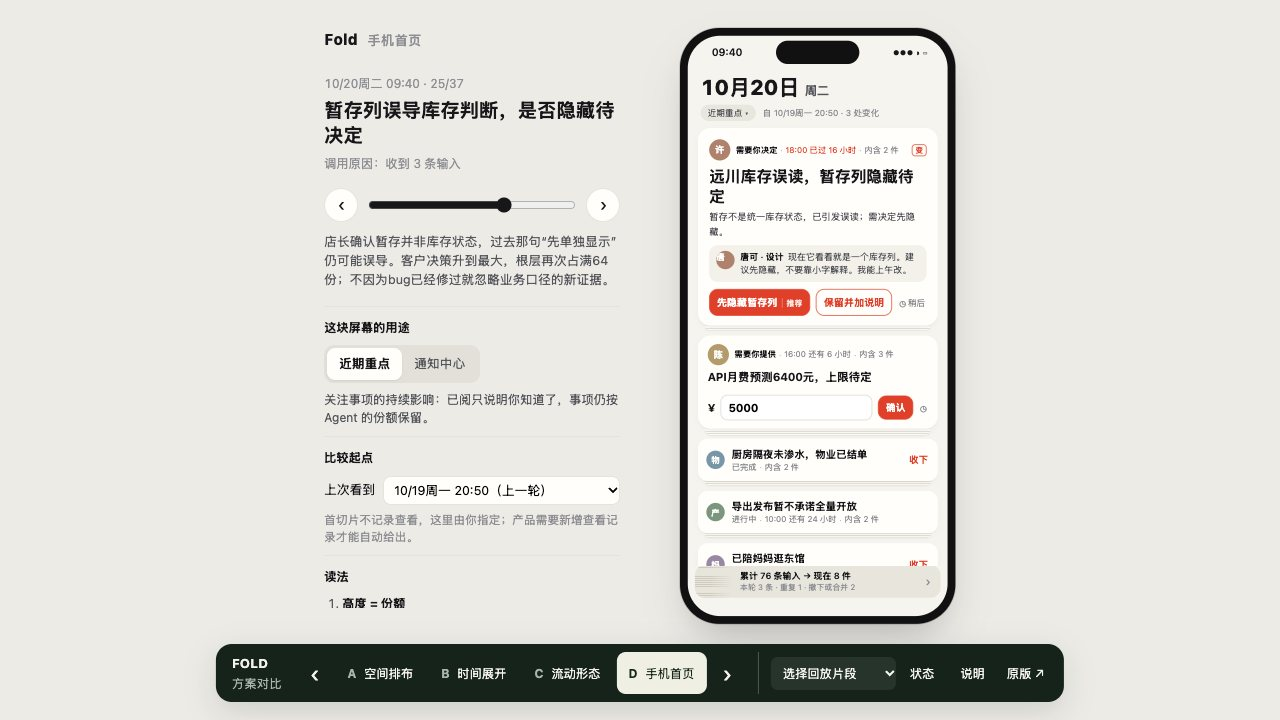
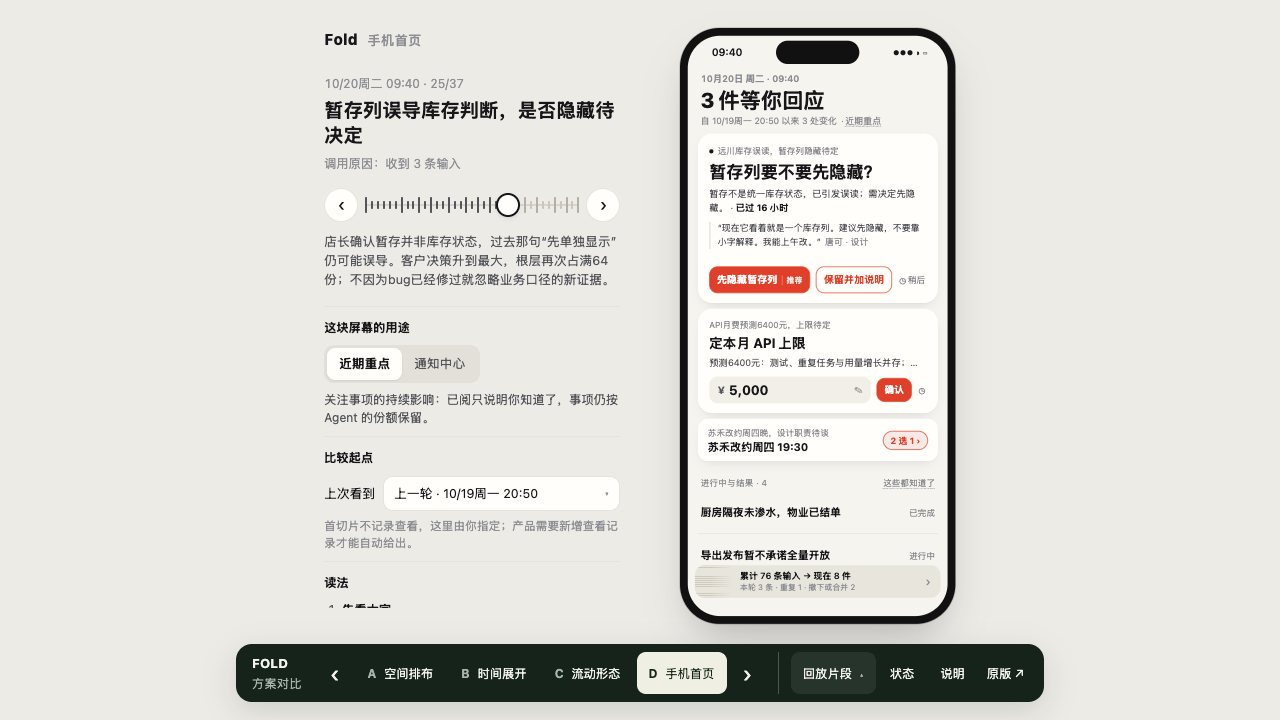
手机首页改为三层结构，替换原生控件
- 首页只回答三个问题：顶部一句话说几件等你回应；只有登记了反馈路径的事是卡片，标题即要回答的问题；其余进行中与结果为无装饰的行，小事叠在一起。
- 头像、类别色与子项纸边移出首页，变化统一为一个黑点；朱红只用于可回应的控件。
- 时间轴、比较起点、金额、短句与回放片段菜单改为自绘控件，不再使用原生 input/select。

diff --git a/prototype/variants/d.css b/prototype/variants/d.css
@@ -17,7 +17,13 @@
 .d-rail-signal { margin: 0; font-size: 12px; color: var(--ink-3); }
 .d-rail-steps { display: flex; align-items: center; gap: 8px; margin: 14px 0 10px; }
 .d-rail-steps button { width: 34px; height: 34px; border-radius: 50%; border: 1px solid var(--line); background: var(--card); font-size: 18px; color: var(--ink); cursor: pointer; }
-.d-rail-range { flex: 1; accent-color: var(--ink); }
+.d-track { position: relative; flex: 1; height: 34px; cursor: pointer; touch-action: none; outline: none; border-radius: 8px; }
+.d-track:focus-visible { box-shadow: 0 0 0 2px var(--ink); }
+.d-track-line { position: absolute; left: 0; right: 0; top: 16px; height: 2px; border-radius: 1px; background: #d8d4ca; }
+.d-track-ticks i { position: absolute; top: 13px; width: 2px; height: 8px; margin-left: -1px; border-radius: 1px; background: #cbc6bb; }
+.d-track-ticks i.is-day { top: 9px; height: 16px; background: #b4afa4; }
+.d-track-ticks i.is-past { background: var(--ink-2); }
+.d-track-thumb { position: absolute; top: 7px; width: 20px; height: 20px; margin-left: -10px; border-radius: 50%; background: var(--card); box-shadow: 0 0 0 2px var(--ink), 0 2px 6px #0003; transition: left .18s; pointer-events: none; }
 .d-rail-narrative { margin: 0 0 16px; font-size: 12.5px; }
 .d-rail-block { border-top: 1px solid var(--line); padding: 12px 0 4px; }
 .d-rail-block h2 { margin: 0 0 8px; font-size: 12px; color: var(--ink); font-weight: 700; }
@@ -26,7 +32,16 @@
 .d-surface-toggle button[aria-checked="true"] { background: var(--card); color: var(--ink); font-weight: 600; box-shadow: 0 1px 2px #0001; }
 .d-surface-policy { margin: 8px 0 4px; font-size: 12px; }
 .d-base { display: flex; align-items: center; gap: 8px; font-size: 12.5px; color: var(--ink); }
-.d-base select { flex: 1; padding: 5px 6px; border-radius: 8px; border: 1px solid var(--line); background: var(--card); font: inherit; }
+.d-base-btn { flex: 1; display: flex; justify-content: space-between; align-items: center; padding: 7px 10px; border-radius: 10px; border: 1px solid var(--line); background: var(--card); font: inherit; font-size: 12.5px; color: var(--ink); cursor: pointer; text-align: left; }
+.d-base-btn span { font-size: 10px; color: var(--ink-3); }
+.d-base-menu { margin-top: 6px; max-height: 260px; overflow: auto; background: var(--card); border-radius: 12px; box-shadow: 0 10px 30px -10px #0004, 0 0 0 1px var(--line); padding: 4px; scrollbar-width: thin; }
+.d-base-menu button { display: block; width: 100%; text-align: left; border: 0; background: none; border-radius: 8px; padding: 7px 9px; font: inherit; cursor: pointer; color: var(--ink); }
+.d-base-menu button:hover, .d-base-menu button:focus-visible { background: #f2efe8; outline: none; }
+.d-base-menu button[aria-selected="true"] { background: var(--ink); color: #fff; }
+.d-base-menu button[aria-selected="true"] small, .d-base-menu button[aria-selected="true"] em { color: #fffc; }
+.d-base-menu span { font-size: 12.5px; font-variant-numeric: tabular-nums; }
+.d-base-menu em { font-style: normal; font-size: 11px; color: var(--red); margin-left: 6px; }
+.d-base-menu small { display: block; font-size: 11px; color: var(--ink-3); white-space: nowrap; overflow: hidden; text-overflow: ellipsis; }
 .d-small { font-size: 11.5px; color: var(--ink-3); margin: 6px 0; line-height: 1.5; }
 .d-legend ol { margin: 0; padding-left: 18px; font-size: 12px; }
 .d-legend li { margin-bottom: 6px; }
@@ -47,16 +62,18 @@
 
 .d-head { padding: 6px 4px 10px; }
 .d-head-main { display: flex; justify-content: space-between; align-items: center; gap: 8px; }
-.d-date { font-size: 30px; font-weight: 800; letter-spacing: -.01em; font-variant-numeric: tabular-nums; }
-.d-date span { font-size: 17px; font-weight: 600; margin-left: 8px; color: var(--ink-2); }
+.d-date { font-size: 13px; font-weight: 600; color: var(--ink-3); font-variant-numeric: tabular-nums; }
+.d-headline { margin: 4px 0 2px; font-size: 30px; line-height: 1.2; font-weight: 800; letter-spacing: -.01em; }
+.d-headline:empty { display: none; }
 .d-snoozed { border: 1px solid var(--line); background: var(--card); border-radius: 99px; padding: 6px 11px; font-size: 12px; color: var(--ink); cursor: pointer; white-space: nowrap; }
-.d-head-sub { display: flex; align-items: center; gap: 10px; margin-top: 4px; font-size: 12px; color: var(--ink-3); }
-.d-surface-chip { border: 0; background: #e9e6de; border-radius: 99px; padding: 3px 10px; font-size: 12px; color: var(--ink-2); cursor: pointer; }
+.d-head-sub { display: flex; align-items: center; gap: 6px; margin: 0; font-size: 12.5px; color: var(--ink-3); }
+.d-surface-chip { border: 0; background: none; padding: 0; font: inherit; color: var(--ink-3); cursor: pointer; text-decoration: underline dotted; text-underline-offset: 3px; }
+.d-surface-chip::before { content: "· "; text-decoration: none; display: inline-block; margin-right: 2px; }
 .d-signal { margin: 8px 0 0; padding: 7px 10px; font-size: 11.5px; color: var(--ink-2); background: #eceae3; border-radius: 10px; line-height: 1.45; }
 
 /* ---- cards: height follows share ---- */
-.d-cards { position: relative; z-index: 0; display: flex; flex-direction: column; gap: 6px; }
-.d-card { position: relative; min-height: var(--h); box-sizing: border-box; background: var(--card); border-radius: 18px; padding: 12px 14px; box-shadow: 0 1px 0 #00000008, 0 4px 14px -8px #0002; cursor: pointer; display: flex; flex-direction: column; outline: none; transition: opacity .25s, filter .25s; }
+.d-cards { position: relative; z-index: 0; display: flex; flex-direction: column; gap: 8px; }
+.d-card { position: relative; min-height: var(--h); box-sizing: border-box; background: var(--card); border-radius: 20px; padding: 14px 16px; box-shadow: 0 1px 0 #00000008, 0 6px 18px -10px #0003; cursor: pointer; display: flex; flex-direction: column; outline: none; transition: opacity .25s, filter .25s; }
 .d-card:focus-visible { box-shadow: 0 0 0 2px var(--ink); }
 .d-card h3 { margin: 0; font-size: 16px; line-height: 1.35; font-weight: 700; }
 .d-card.is-xl { padding: 16px 16px 14px; }
@@ -108,8 +125,23 @@
 .d-btn.is-line { background: transparent; color: var(--red); border: 1.5px solid var(--red); }
 .d-btn small { font-size: 11px; font-weight: 600; opacity: .85; margin-left: 6px; padding-left: 6px; border-left: 1px solid #fff7; }
 .d-input { flex: 1; display: flex; align-items: center; gap: 8px; margin: 0; }
-.d-input span { font-weight: 700; font-size: 16px; }
-.d-input input { flex: 1; min-width: 0; height: 36px; border: 1px solid #d9d5cc; border-radius: 10px; padding: 0 10px; font: inherit; font-size: 16px; font-weight: 700; background: #fff; }
+.d-amount { flex: 1; min-width: 0; height: 38px; display: flex; align-items: center; gap: 6px; border: 0; border-radius: 12px; padding: 0 12px; background: #f2efe8; font: inherit; color: var(--ink); cursor: pointer; text-align: left; }
+.d-amount span { font-weight: 700; font-size: 15px; color: var(--ink-2); }
+.d-amount b { flex: 1; font-size: 19px; font-variant-numeric: tabular-nums; letter-spacing: .01em; }
+.d-amount i { font-style: normal; font-size: 13px; color: var(--ink-3); }
+.d-write { text-align: left; padding: 0 14px; }
+.d-keypad-value { text-align: center; font-size: 22px; font-weight: 600; color: var(--ink-2); margin: 10px 0 12px; }
+.d-keypad-value b { font-size: 40px; color: var(--ink); margin-left: 4px; font-variant-numeric: tabular-nums; }
+.d-keypad-chips, .d-suggest { display: flex; flex-wrap: wrap; gap: 8px; justify-content: center; margin-bottom: 12px; }
+.d-keypad-chips button, .d-suggest button { border: 1.5px solid var(--red); color: var(--red); background: none; border-radius: 99px; padding: 6px 14px; font: inherit; font-size: 13.5px; font-weight: 600; cursor: pointer; }
+.d-suggest { justify-content: flex-start; margin-top: 12px; }
+.d-keypad-keys { display: grid; grid-template-columns: repeat(3, 1fr); gap: 6px; }
+.d-keypad-keys button { height: 48px; border: 0; border-radius: 12px; background: #f2efe8; font: inherit; font-size: 21px; font-weight: 600; color: var(--ink); cursor: pointer; }
+.d-keypad-keys button:active { background: #e4e0d6; }
+.d-keypad-done { width: 100%; margin-top: 12px; min-height: 46px; }
+.d-composer { display: flex; align-items: flex-end; gap: 8px; margin-top: 4px; padding: 6px 6px 6px 14px; border-radius: 20px; background: #f2efe8; }
+.d-composer textarea { flex: 1; border: 0; background: none; resize: none; font: inherit; font-size: 15px; line-height: 1.45; padding: 6px 0; outline: none; color: var(--ink); }
+.d-send { width: 34px; height: 34px; flex-shrink: 0; border: 0; border-radius: 50%; background: var(--red); color: #fff; font-size: 17px; font-weight: 700; cursor: pointer; }
 .d-input .d-btn { flex: 0 0 auto; }
 .d-snooze { flex: 0 0 auto; border: 0; background: none; color: var(--ink-3); font-size: 15px; cursor: pointer; display: inline-flex; align-items: center; gap: 3px; padding: 0 2px; }
 .d-snooze span { font-size: 12px; }
@@ -224,7 +256,7 @@
   .d-rail-time { margin: 0; min-width: 0; }
   .d-rail-title { font-size: 13px; margin: 0; white-space: nowrap; overflow: hidden; text-overflow: ellipsis; }
   .d-rail-steps { margin: 0; }
-  .d-rail-range { display: none; }
+  .d-track { display: none; }
   .d-rail-steps button { width: 30px; height: 30px; }
   .d-device { width: auto; height: auto; }
   .d-phone { width: auto; height: calc(100svh - 58px - 112px); min-height: 480px; transform: none; border-radius: 0; padding: 0; background: none; box-shadow: none; }
@@ -236,3 +268,34 @@
 }
 @media (prefers-reduced-motion: reduce) { .d-detail, .d-sheet { animation: none; } }
 .d-earlier summary { font-size: 12px; color: var(--ink-3); cursor: pointer; margin-bottom: 8px; }
+
+/* ---- calm home: three zones ---- */
+.d-kicker { margin: 0; font-size: 12px; color: var(--ink-3); white-space: nowrap; overflow: hidden; text-overflow: ellipsis; display: flex; align-items: center; gap: 6px; }
+.d-card h3 { margin: 4px 0 4px; }
+.d-card.is-xl h3 { font-size: 24px; margin: 6px 0 6px; }
+.d-card.is-l h3 { font-size: 19px; white-space: normal; }
+.d-card.is-m h3 { font-size: 15.5px; margin: 1px 0 0; }
+.d-card.is-m { padding: 0 14px; }
+.d-context { margin: 0; font-size: 13px; line-height: 1.5; color: var(--ink-2); display: -webkit-box; -webkit-line-clamp: 2; -webkit-box-orient: vertical; overflow: hidden; }
+.d-context b { color: var(--ink); font-weight: 700; }
+.d-card.is-l .d-context { -webkit-line-clamp: 1; }
+.d-quote { margin: 10px 0 0; padding: 0 0 0 10px; border-left: 2px solid var(--line); font-size: 12.5px; line-height: 1.5; color: var(--ink-2); display: -webkit-box; -webkit-line-clamp: 2; -webkit-box-orient: vertical; overflow: hidden; }
+.d-quote cite { font-style: normal; color: var(--ink-3); margin-left: 6px; }
+.d-dot { flex-shrink: 0; display: inline-block; width: 6px; height: 6px; border-radius: 50%; background: var(--ink); margin-right: 6px; vertical-align: 3px; }
+.d-kicker .d-dot { margin-right: 0; vertical-align: 0; }
+.d-banner { color: var(--ink-2); font-weight: 500; }
+.d-zone-head { display: flex; justify-content: space-between; align-items: baseline; margin: 22px 4px 4px; font-size: 12px; color: var(--ink-3); letter-spacing: .02em; }
+.d-link.is-quiet { color: var(--ink-3); text-decoration: underline dotted; text-underline-offset: 3px; }
+.d-lines { list-style: none; margin: 0; padding: 0; }
+.d-line { min-height: var(--h); box-sizing: border-box; padding: 10px 4px; border-bottom: 1px solid var(--line); display: flex; flex-direction: column; justify-content: center; cursor: pointer; outline: none; touch-action: pan-y; transition: transform .2s, opacity .2s; }
+.d-line:focus-visible { box-shadow: inset 0 0 0 2px var(--ink); border-radius: 8px; }
+.d-line-head { display: flex; align-items: baseline; gap: 10px; }
+.d-line h3 { flex: 1; min-width: 0; margin: 0; font-size: 15px; font-weight: 600; line-height: 1.4; white-space: nowrap; overflow: hidden; text-overflow: ellipsis; }
+.d-line.is-big h3 { font-size: 17px; font-weight: 700; white-space: normal; }
+.d-line .d-context { margin-top: 3px; }
+.d-line.is-read h3, .d-line.is-read .d-context { color: var(--ink-3); }
+.d-status { flex-shrink: 0; font-size: 12px; color: var(--ink-3); }
+.d-known { margin-top: 0; }
+.d-stack-top { box-shadow: 0 0 0 1px var(--line); }
+.d-swipe-hint { font-size: 12px; color: var(--ink-3); }
+.d-peek { color: var(--ink-3); box-shadow: 0 0 0 1px var(--line); }

diff --git a/prototype/explore.css b/prototype/explore.css
@@ -26,7 +26,13 @@ button { color:inherit; }
 .lab-options button[aria-pressed="true"]:hover { background:oklch(.99 .005 95); }
 .lab-arrow { font-size:23px!important; padding:2px 8px!important; }
 .lab-utilities { display:flex; align-items:center; gap:2px; margin-left:10px; padding-left:12px; border-left:1px solid oklch(.45 .03 150); }
-.lab-utilities select { width:125px; border:0; border-radius:7px; background:oklch(.31 .025 155); color:inherit; padding:8px; font-size:12px; }
+.lab-scene { position:relative; }
+.lab-utilities #lab-scene-toggle { background:oklch(.31 .025 155); }
+#lab-scene-toggle span { font-size:9px; margin-left:4px; opacity:.7; }
+.lab-scene-menu { position:absolute; bottom:calc(100% + 12px); left:50%; transform:translateX(-50%); min-width:180px; padding:6px; border-radius:14px; background:oklch(.24 .026 155); box-shadow:0 14px 34px oklch(.2 .02 150 / .28); display:flex; flex-direction:column; }
+.lab-scene-menu[hidden] { display:none; }
+.lab-scene-menu button { text-align:left; min-height:36px!important; padding:8px 12px!important; border-radius:9px; }
+.lab-scene-menu button:focus-visible { outline:2px solid oklch(.9 .02 100); outline-offset:-2px; }
 .lab-utilities a { color:inherit; text-decoration:none; white-space:nowrap; padding:8px; }
 .lab-inspector { position:fixed; z-index:110; top:0; right:0; bottom:0; width:min(560px,100vw); background:oklch(.987 .006 95); color:oklch(.28 .02 150); padding:24px; overflow:auto; box-shadow:-12px 0 50px oklch(.2 .02 150 / .13); }
 .lab-inspector-top { display:flex; align-items:center; justify-content:space-between; gap:16px; }
@@ -63,7 +69,7 @@ button { color:inherit; }
 .shared-input { padding:18px 0; border-top:1px solid oklch(.86 .015 140); font-size:14px; line-height:1.8; }
 .shared-input>div { display:flex; justify-content:space-between; gap:15px; color:oklch(.47 .025 150); font-size:12px; }
 .shared-input>small { font-size:12px; color:oklch(.48 .02 150); }
-@media(max-width:900px){.lab-mark{display:none}.lab-utilities{margin-left:3px;padding-left:7px}.lab-utilities select{width:110px}}
-@media(max-width:640px){#variant-host{padding-bottom:128px}.lab-switcher{bottom:10px;gap:2px;padding:6px;flex-wrap:wrap;justify-content:center;width:calc(100vw - 20px);border-radius:12px}.lab-options{flex:1;justify-content:center}.lab-options button{padding:8px 9px;gap:6px;font-size:12px}.lab-utilities{border:0;padding:0;margin:0;justify-content:center;width:100%}.lab-utilities button,.lab-utilities a{min-height:32px;padding:5px 9px}.lab-utilities select{width:142px;padding:6px}.lab-about{bottom:118px;padding:24px}.lab-inspector{padding:20px}.lab-arrow{display:none}}
+@media(max-width:900px){.lab-mark{display:none}.lab-utilities{margin-left:3px;padding-left:7px}}
+@media(max-width:640px){#variant-host{padding-bottom:128px}.lab-switcher{bottom:10px;gap:2px;padding:6px;flex-wrap:wrap;justify-content:center;width:calc(100vw - 20px);border-radius:12px}.lab-options{flex:1;justify-content:center}.lab-options button{padding:8px 9px;gap:6px;font-size:12px}.lab-utilities{border:0;padding:0;margin:0;justify-content:center;width:100%}.lab-utilities button,.lab-utilities a{min-height:32px;padding:5px 9px}.lab-about{bottom:118px;padding:24px}.lab-inspector{padding:20px}.lab-arrow{display:none}}
 @media(max-width:480px){.lab-options{gap:0}.lab-options button{padding:7px 6px;gap:4px;font-size:11.5px}}
 @media(prefers-reduced-motion:reduce){*,*::before,*::after{scroll-behavior:auto!important;animation-duration:.01ms!important;transition-duration:.01ms!important}}

diff --git a/prototype/README.md b/prototype/README.md
@@ -19,7 +19,7 @@ make prototype
 - [A · 空间排布](./index.html?variant=a&frame=6)：事项像独立纸片聚在中部，真实留白散在周围和间隙。
 - [B · 时间展开](./index.html?variant=b&frame=6)：顺着同一事项的份额轨迹，理解怎样走到当前局面。
 - [C · 流动形态](./index.html?variant=c&frame=6)：用 Three.js 液体体量与连续形变辅助感知，精确份额看预算带与 JSON。
-- [D · 手机首页](./index.html?variant=d&frame=24)：手机打开助理的第一屏。卡片高度表达份额，登记的反馈按钮表达需要你做什么，可以直接决定、填写、报告已处理、已阅或稍后提醒。
+- [D · 手机首页](./index.html?variant=d&frame=24)：手机打开助理的第一屏。顶部一句话说几件等你回应；只有登记了反馈路径的事是卡片，大字是要你回答的问题，按钮形态说明怎么答；其余进行中与结果是纸面上的行，小事叠在一起。
 
 四版与原版共用同一故事和回放数据。底栏的「选择回放片段」可直达冷启动、合并、用满预算和细节；「原版」可返回已有实现。「状态」打开数据核对区，可查看完整状态 JSON、原始输入、声明与回执、变化对比。←/→仍逐帧，Alt+←/→切换方案。
 
@@ -27,7 +27,7 @@ B 在桌面上将历史与此刻等宽并列，右侧详情独立滚动。悬停
 
 C 通过液滴内部的透光与折射光带标记选中，文字在静置时固定。持续的表面蠕动已放缓至前一版的 40%，帧间与层级切换的过渡速度不变；点击和指针移动不再引起水波纹。选中不改变液滴位置、轮廓计算或份额，减少动态效果时保留静态材质。短窗口下允许页面纵向滚动，避免挤压文字。
 
-D 一份约一行高，满屏约 64 份；份额不足一行且只需知道的事项错开叠在一起，最多露出四张，其余记为 +x。按钮形态对应[领域模型](../docs/domain-model.md)中的期待：选项是决定，输入框是提供，单个动作是去做，没有按钮是只需知道。点按产生的反馈只留在本页演示，不写回状态；故事里真实发生的回复和按钮标为 ↩。右侧（窄屏为顶部）可切换「近期重点」与「通知中心」两种业务用途，比较同一次已阅的不同处理。
+D 一份约一行高，满屏约 64 份；朱红只用于可回应的控件，变化只用一个黑点标记。份额不足一行且只需知道的事项错开叠在一起，最多露出四张，其余记为 +x。按钮形态对应[领域模型](../docs/domain-model.md)中的期待：选项是决定，输入框是提供，单个动作是去做，没有按钮是只需知道。点按产生的反馈只留在本页演示，不写回状态；故事里真实发生的回复和按钮标为 ↩。右侧（窄屏为顶部）可切换「近期重点」与「通知中心」两种业务用途，比较同一次已阅的不同处理。
 
 原版与 A 的条目面积按份额比例布局；B 在记录节点和当前截面用带的粗细表达份额，连接区用于帮助追踪变化；C 的液体体量只辅助比较，准确份额由独立预算带与 JSON 表达；D 用卡片高度表达份额，低于一行的事项有最小行高。各方案都保留未分配份额。
 

diff --git a/prototype/EXPLORATIONS.md b/prototype/EXPLORATIONS.md
@@ -55,11 +55,12 @@
 
 | 状态或记录 | 手机上的表达 |
 | --- | --- |
-| share | 卡片高度，一份约一行；24 份是首屏大卡，6 份是一行。份额不足一行且只需知道的事项进入错开的一叠。 |
-| 登记的反馈动作 | 按钮形态：两个选项是决定，预填输入框是提供，单个动作是去做，相机是提供照片，没有按钮是只需知道。朱红只用于可以回应的控件。 |
-| 子层 | 卡片下方贴合的薄纸边，详情中展开为独立 64 份。 |
+| 屏幕结构 | 三个区域各答一个问题：等你回应的卡片、进行中与结果的纸面行、小事的叠卡；顶部一句话给出等你回应的件数。 |
+| share | 卡片或行的高度，一份约一行；24 份是首屏大卡，6 份是一行。份额不足一行且只需知道的事项进入错开的一叠。 |
+| 登记的反馈动作 | 只有登记了反馈路径的输出才成为卡片，大字是登记的问题。按钮形态：两个选项是决定，金额键盘或短句是提供，单个动作是去做，相机是提供照片。朱红只用于可以回应的控件。 |
+| 子层 | 首页不展示，详情中展开为独立 64 份。 |
 | 被整理的输入 | 底部折叠带给出累计输入、当前件数、本轮噪音与重复，点开看原文与撤下或合并的事项。 |
-| 变化 | 相对你指定的比较起点标出“新”“变”“子项有变”；首切片不记录查看，这个起点需要人工选择。 |
+| 变化 | 相对你指定的比较起点，用一个黑点标出本项或子项有变化；首切片不记录查看，这个起点需要人工选择。 |
 | 时间信号 | 零事件的每日整理显示窗口、渠道覆盖与这次整理的结果。 |
 
 点击卡片进入详情：依据原文、份额理由、来龙去脉、反馈回路和子项，底部固定与首页相同的回应按钮。稍后提醒会把卡片收进顶部时钟；往后切到提醒时间后，它回到首页并注明期间是否有更新。
@@ -71,4 +72,6 @@
 - 每一帧记录调用原因与窗口（`frame.signal`）。f17 的零事件每日整理不再只是检查：东馆资料已过复核时间，改为“最后核对于13日，出发前再确认”；f27 仍是有效的无变化检查。
 
 这些记录在宿主一侧，不进入 Fold 状态，也不改变其他声明。哪些按钮出现、按下后如何处理，仍属于业务策略；原型中的两种用途只用于比较，不是内置规则。
+
+第一版体验后，用户认为有意思但显得乱：要仔细看才找得到有用的信息。原因是每张卡都同时带头像、类别色、期待标签、期限、子项数、变化标记、摘要、引用和按钮，朱红又出现在按钮、逾期、变化与“收下”上，区分不出主次。第二版只保留三层：顶部一句话、等你回应的卡片（问题即标题）、无装饰的进行中与结果；头像、类别色、子项纸边移出首页，变化统一为黑点，原生输入与下拉改为金额键盘、短句面板与自绘菜单。
 
